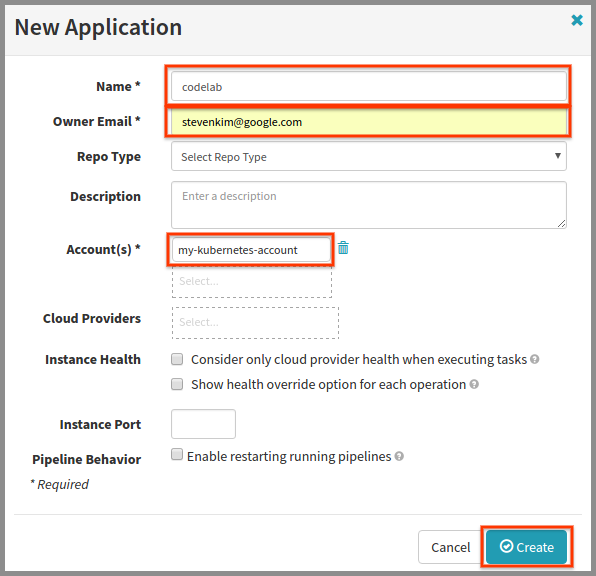
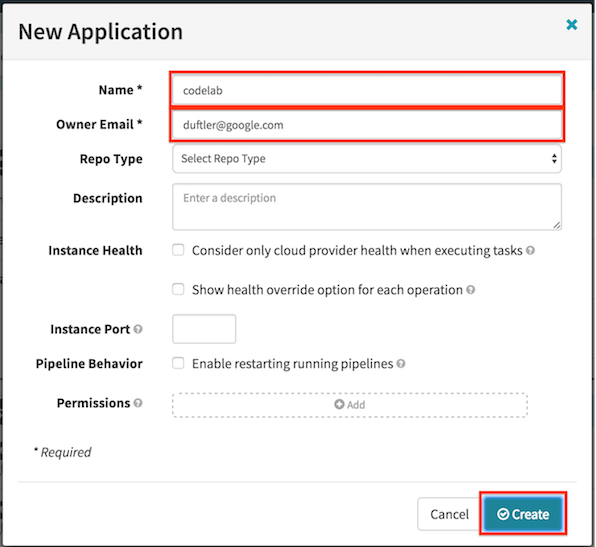
chore(docs/codelabs): Remove Accounts box from New Application dialog. (#262)

diff --git a/guides/tutorials/codelabs/gcp-kubernetes-source-to-prod/index.md b/guides/tutorials/codelabs/gcp-kubernetes-source-to-prod/index.md
@@ -192,7 +192,6 @@ In the *New Application* dialog:
 
 * Enter “codelab” for *Name*.
 * Enter your email for *Owner Email*.
-* Click in the *Accounts* field and choose “my-kubernetes-account”.
 * Click the *Create* button.
 
 ### Create Kubernetes Load Balancers

diff --git a/guides/tutorials/codelabs/gce-source-to-prod/index.md b/guides/tutorials/codelabs/gce-source-to-prod/index.md
@@ -83,7 +83,6 @@ In the *New Application* dialog:
 
 * Enter "codelab" for *Name*.
 * Enter your email for *Owner Email*.
-* Click in the *Accounts* field and choose “my-google-account”.
 * Click the *Create* button.
 
 ![](1-new-application.png)

diff --git a/guides/tutorials/codelabs/openstack-source-to-prod/index.md b/guides/tutorials/codelabs/openstack-source-to-prod/index.md
@@ -36,7 +36,6 @@ In the *New Application* dialog:
 
 * Enter "codelab" for *Name*.
 * Enter your email for *Owner Email*.
-* Click in the *Accounts* field and choose “my-openstack-account”.
 * Click the *Create* button.
 
 ![](create-app.png)
